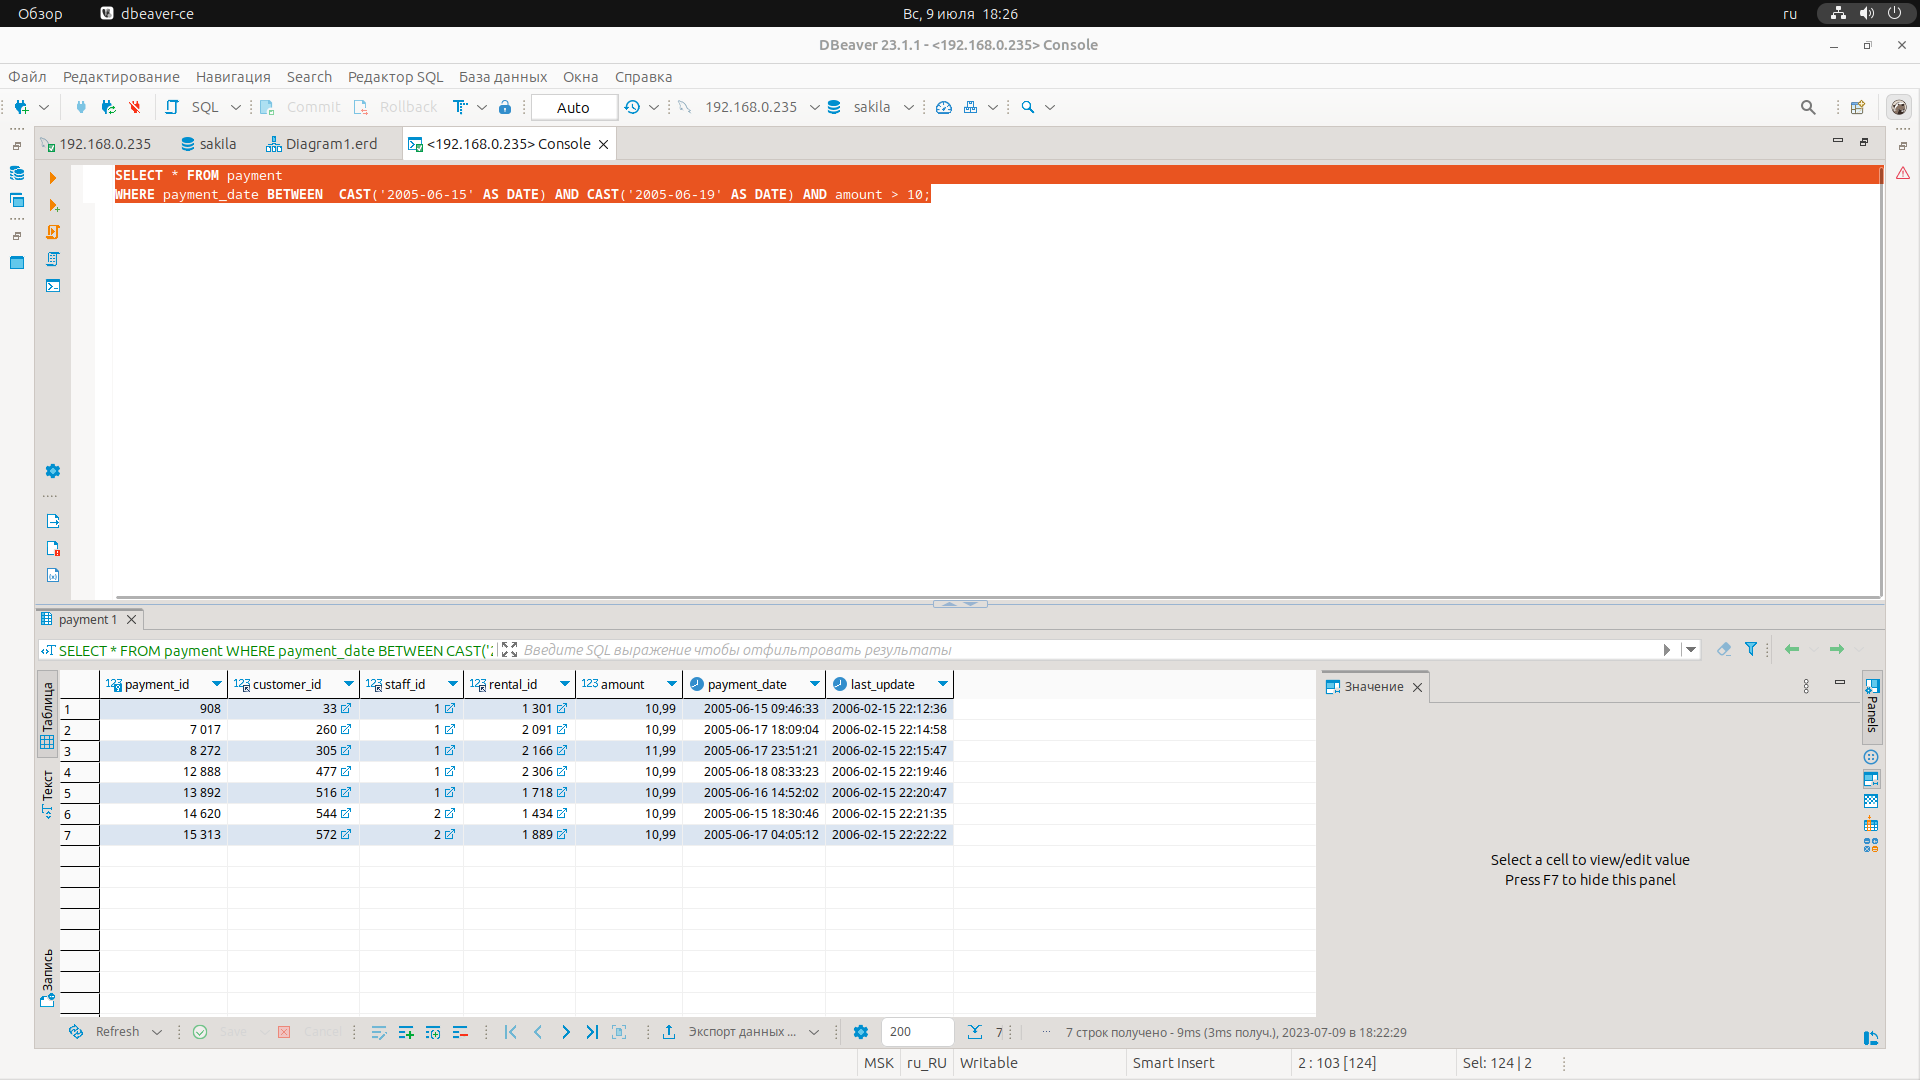
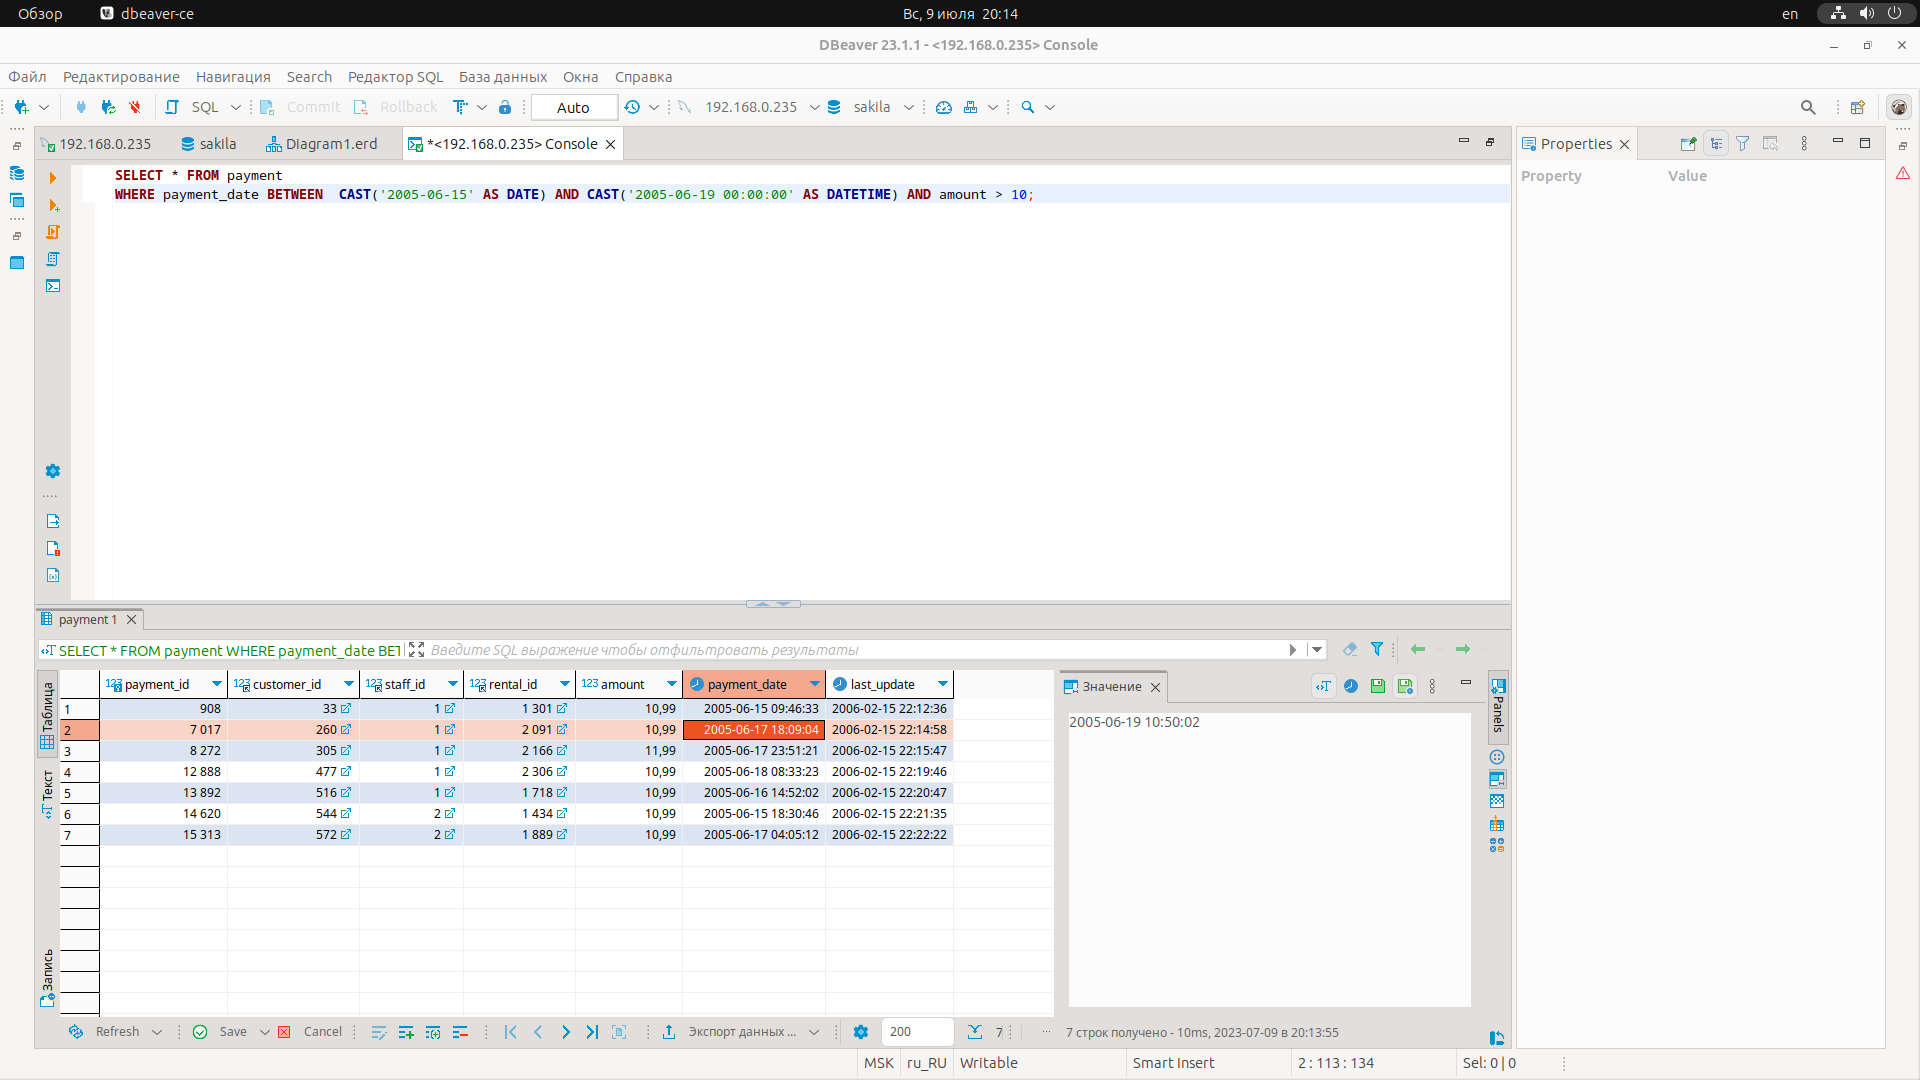
Second

diff --git a/README.md b/README.md
@@ -37,7 +37,7 @@ WHERE district  LIKE 'k%a' and district not LIKE  '% %';
 Ответ:
 
 SELECT * FROM payment
-WHERE payment_date BETWEEN  CAST('2005-06-15' AS DATE) AND CAST('2005-06-19' AS DATE) AND amount > 10;
+WHERE payment_date BETWEEN  CAST('2005-06-15' AS DATE) AND CAST('2005-06-19 00:00:00' AS DATETIME) AND amount > 10;
 
 ![alt text](https://github.com/dsolovev455/12-03/blob/main/img/2.png)
 
